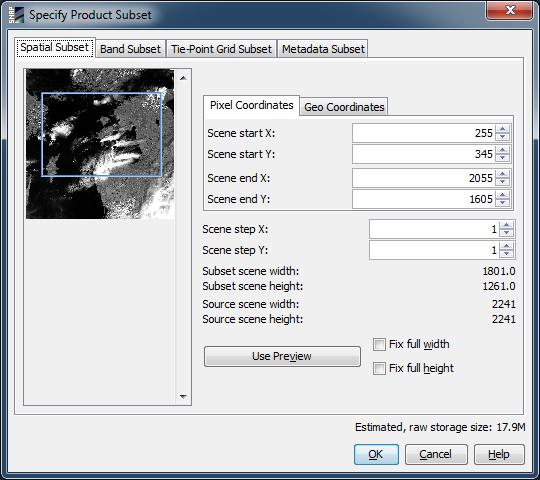
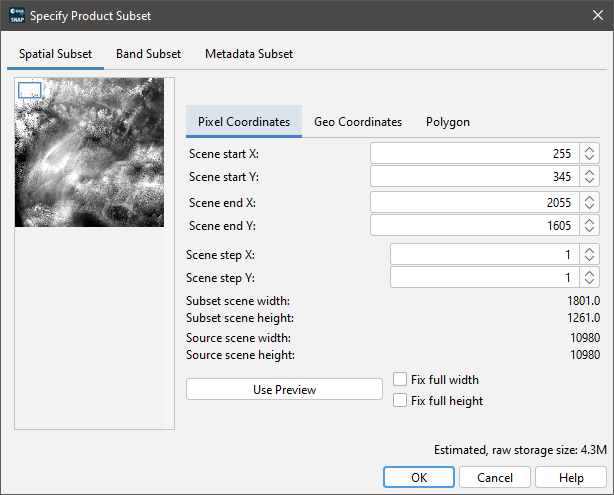
[SNAP-1608][SNAP-369](snap-desktop): Update the help page after integration of the Polygon Subset in the SNAP Subset Operator (Raster -> Subset).

diff --git a/snap-help/src/main/resources/org/esa/snap/snap/help/docs/desktop/ProductSubsetDialog.html b/snap-help/src/main/resources/org/esa/snap/snap/help/docs/desktop/ProductSubsetDialog.html
@@ -45,7 +45,7 @@
 <p>If you are not interested in the whole image, you may specify an area
     of the product to be loaded. You can select the area by dragging the blue
     surrounding rectangle in the preview (see figure above). You can also specify
-    the area manually either by pixel coordinates or by geo coordinates. If you drag
+    the area manually either by pixel coordinates, by geo coordinates or by a polygon. If you drag
     the rectangle, the field values change simultaneously.<br>
 </p>
 <p>You can also specify a sub-sampling, by setting the values of
@@ -62,6 +62,37 @@
     <b>NOTE:</b> Pins outside of the spatial subset area will not be preserved in the
     resulting product, because they are bound to the pixel coordinates of the product. <br/>
     GCPs are preserved, because they are bound to a geo-location.
+</p>
+
+<p>
+    A polygon can be defined in 2 ways:
+</p>
+<ul>
+    <li>by loading it from a supported vector file, which can be in the following formats:
+        <ul>
+            <li>SHAPEFILE (*.shp)</li>
+            <li>KML (*.kml)</li>
+            <li>KMZ (*.kmz)</li>
+            <li>GEOJSON (*.json)</li>
+            <li>WKT (*.wkt)</li>
+            <li>TXT (*.txt)</li>
+            <li>PLACEMARK (*.placemark)</li>
+            <li>PNX (*.pnx)</li>
+        </ul>
+    </li>
+    <li>
+        by defining it from a WKT string with pixel or geo coordinates
+    </li>
+</ul>
+
+<p align="center"><img src="images/SubsetDialogPolygon.png"><br>
+</p>
+
+<p class="inote">
+    <b>NOTE:</b> The defined polygon must have 3 valid points (intersects the product bounds) to be used.
+</p>
+<p class="inote">
+    <b>NOTE:</b> The multi-polygons are not supported.
 </p>
 
 <h4>Band Subset</h4>
